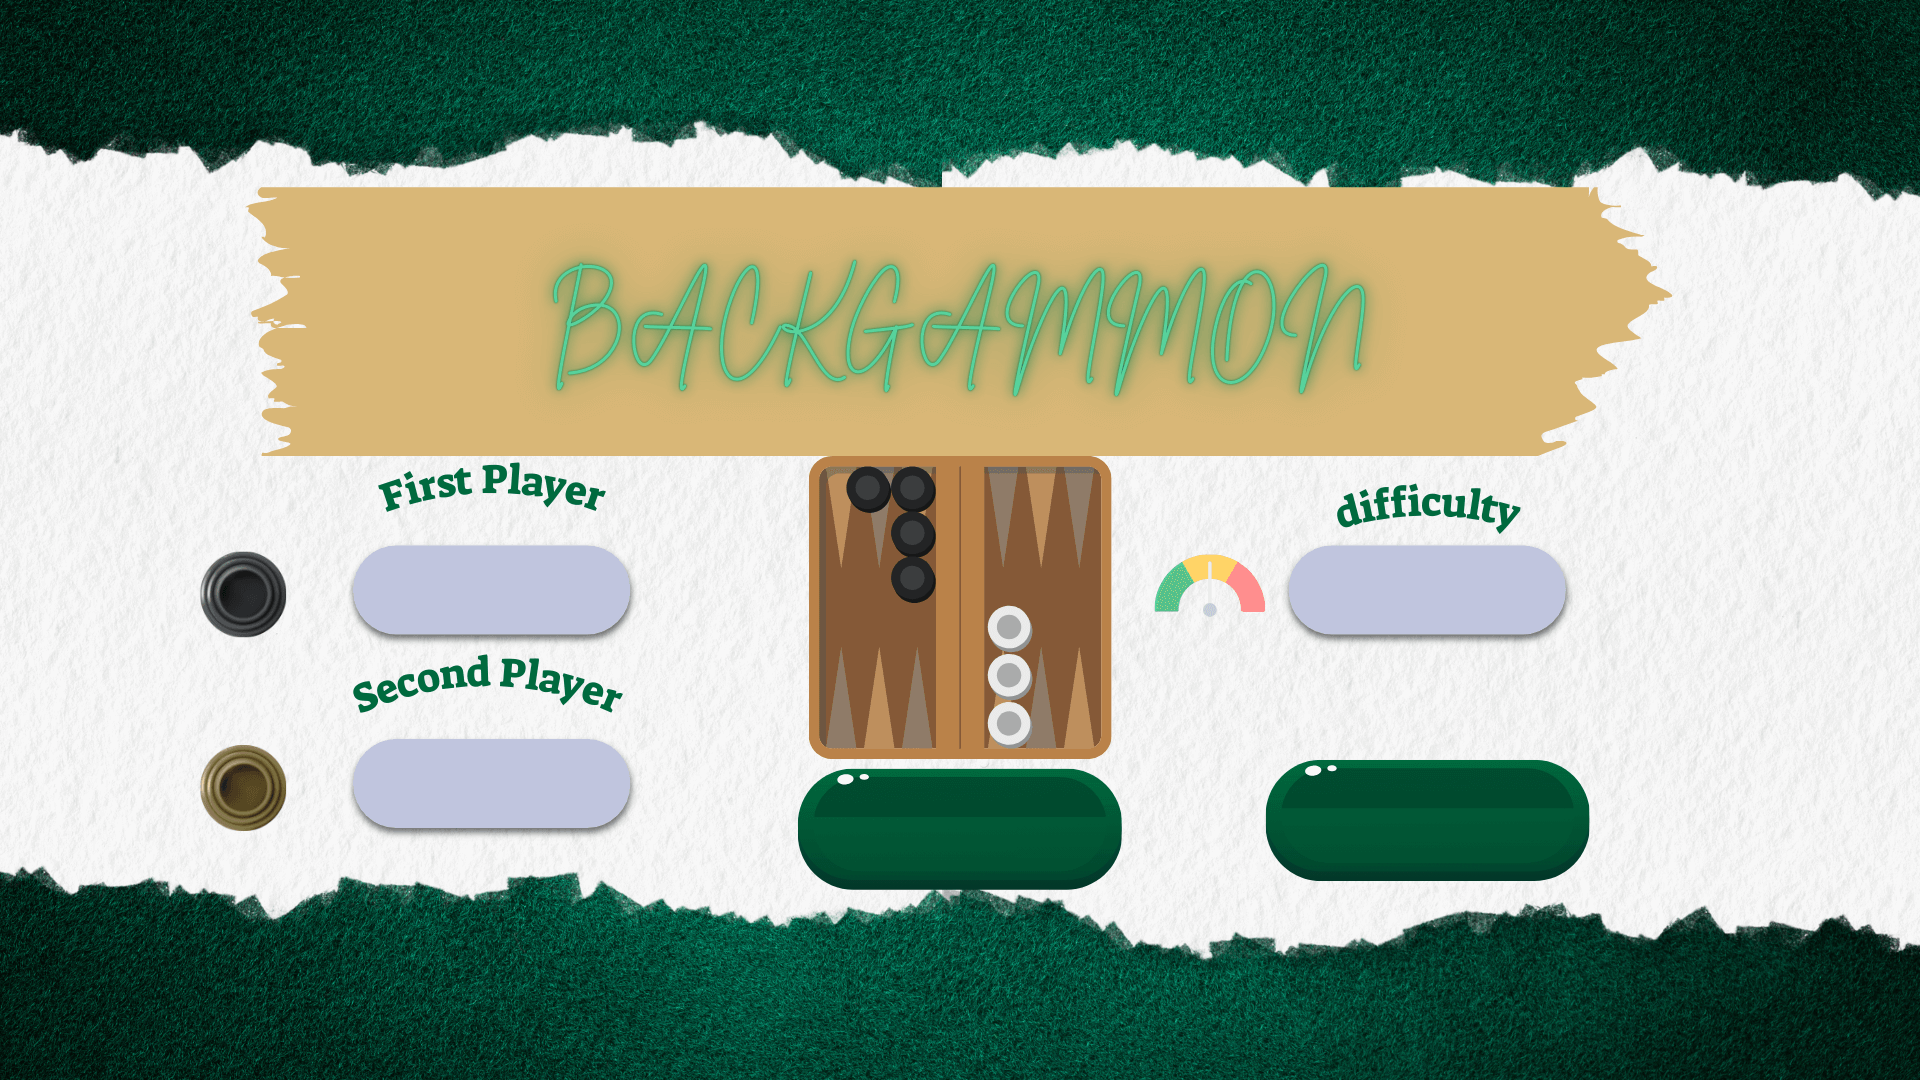
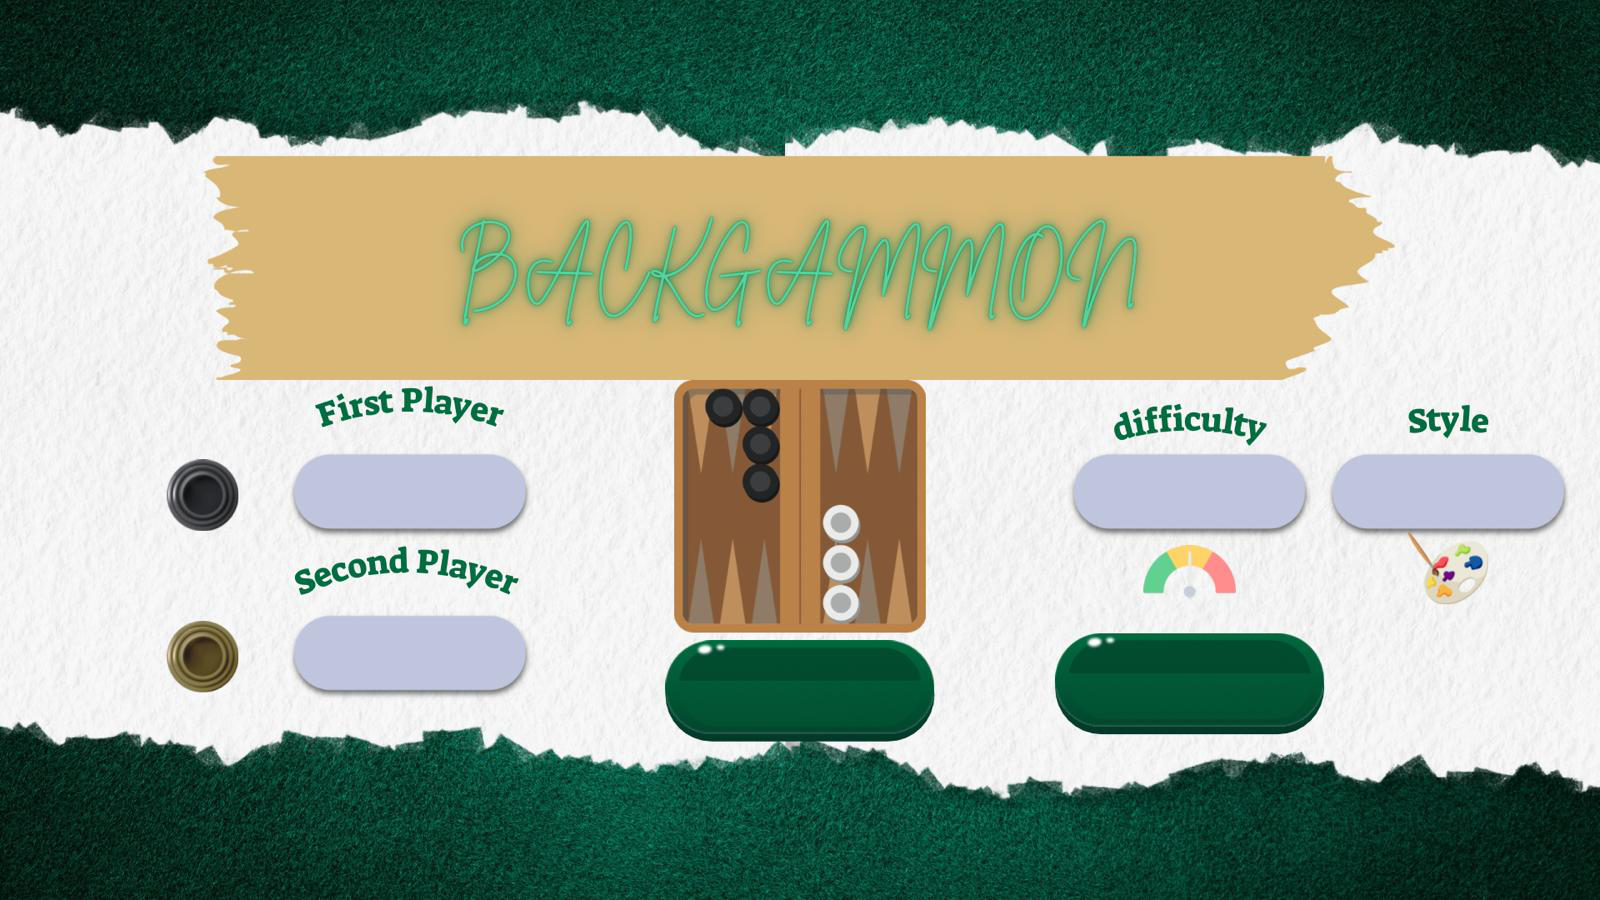
add background color options
numbers for styles

diff --git a/src/controller/GameMenu.java b/src/controller/GameMenu.java
@@ -22,6 +22,7 @@ public class GameMenu {
 	private JTextField firstPlayerField;
 	private JTextField secondPlayerField;
 	private JComboBox<String> difficultyCombo;
+	private JComboBox<String> StyleCombo;
 
 	// משתנים סטטיים שהיו בקוד המקורי
 	public static boolean flag = false;
@@ -63,6 +64,7 @@ public class GameMenu {
 		firstPlayerField = new JTextField();
 		secondPlayerField = new JTextField();
 		difficultyCombo = new JComboBox<>(new String[] { "EASY", "MEDIUM", "HARD" });
+		StyleCombo = new JComboBox<>(new String[] { "0", "1", "2", "3", "4" });
 	}
 
 	private void setupLayout() {
@@ -71,6 +73,7 @@ public class GameMenu {
 		contentPanel.add(firstPlayerField);
 		contentPanel.add(secondPlayerField);
 		contentPanel.add(difficultyCombo);
+		contentPanel.add(StyleCombo);
 
 		JButton startButton = createButton("Start", e -> handleStartGame());
 		JButton historyButton = createButton("History & Questions", e -> openHistoryMenu());
@@ -104,7 +107,7 @@ public class GameMenu {
 		firstPlayerField.setBounds((int) (width * 0.2), (int) (height * 0.5), fieldWidth, fieldHeight);
 		secondPlayerField.setBounds((int) (width * 0.2), (int) (height * 0.67), fieldWidth, fieldHeight);
 		difficultyCombo.setBounds((int) (width * 0.7), (int) (height * 0.50), fieldWidth, fieldHeight);
-
+		StyleCombo.setBounds((int) (width * 0.85), (int) (height * 0.50), fieldWidth, fieldHeight);
 		int buttonWidth = 160;
 		int buttonHeight = 40;
 		int buttonsY = (int) (height * 0.69);
@@ -123,7 +126,7 @@ public class GameMenu {
 		name2 = secondPlayerField.getText();
 		level = Level.valueOf(difficultyCombo.getSelectedItem().toString());
 		flag = true; // סימון שהמשחק יכול להתחיל
-
+		Game.BoardColor = Integer.valueOf(StyleCombo.getSelectedItem().toString());
 		mainFrame.dispose();
 	}
 
@@ -188,9 +191,9 @@ public class GameMenu {
 			@Override
 			public void componentResized(ComponentEvent e) {
 				SwingUtilities.invokeLater(() -> {
-					updateComponentPositions((JButton) ((JPanel) mainFrame.getContentPane()).getComponent(3),
-							(JButton) ((JPanel) mainFrame.getContentPane()).getComponent(4),
-							(JButton) ((JPanel) mainFrame.getContentPane()).getComponent(5));
+					updateComponentPositions((JButton) ((JPanel) mainFrame.getContentPane()).getComponent(4),
+							(JButton) ((JPanel) mainFrame.getContentPane()).getComponent(5),
+							(JButton) ((JPanel) mainFrame.getContentPane()).getComponent(6));
 				});
 			}
 		});

diff --git a/src/view/Palette.java b/src/view/Palette.java
@@ -1,6 +1,8 @@
 package view;
 import java.awt.*;
 
+import controller.Game;
+
 public class Palette
 {
     private static final Color DEFAULT_BLACK_PIECE_COLOUR = new Color(0, 0, 0);
@@ -10,6 +12,15 @@ public class Palette
     private static final Color DEFAULT_LIGHT_TRIANGLE_COLOUR = new Color(204, 184, 163);
     private static final Color DEFAULT_BAR_COLOUR = new Color(230, 218, 207);
     private static final Color DEFAULT_BOARD_BACKGROUND_COLOUR = new Color(230, 230, 242);
+    private static final Color DEFAULT_BOARD_BACKGROUND_COLOUR2 = new Color(255, 182, 193);  // Soft Pink
+    private static final Color DEFAULT_BOARD_BACKGROUND_COLOUR3 = new Color(230, 230, 250);  // Lavender
+    private static final Color DEFAULT_BOARD_BACKGROUND_COLOUR4 = new Color(255, 127, 80);  // Coral
+    private static final Color DEFAULT_BOARD_BACKGROUND_COLOUR5 = new Color(65, 105, 225); // royal blue
+
+
+
+
+
 
     public static Color getPieceColor(final PlayerColor c) {
         if (c == PlayerColor.BLACK)
@@ -38,6 +49,14 @@ public class Palette
     }
     
     public static Color getBoardBackgroundColour() {
+    	if(Game.BoardColor == 1)
+    		return DEFAULT_BOARD_BACKGROUND_COLOUR2;
+    	else if(Game.BoardColor == 2)
+    		return DEFAULT_BOARD_BACKGROUND_COLOUR3;
+    	else if(Game.BoardColor == 3)
+    		return DEFAULT_BOARD_BACKGROUND_COLOUR4;
+    	else if(Game.BoardColor == 4)
+    		return DEFAULT_BOARD_BACKGROUND_COLOUR5;
         return DEFAULT_BOARD_BACKGROUND_COLOUR;
     }
 

diff --git a/src/controller/Game.java b/src/controller/Game.java
@@ -45,6 +45,7 @@ public class Game {
 	protected InfoPanel info;
 	private Level difficulty;
 	protected int QuestionRoll;
+	public static Integer BoardColor=0;
 	// protected int[] rollsEnhancedDice;
 
 	public Game(Level difficulty, String name1, String name2) {
